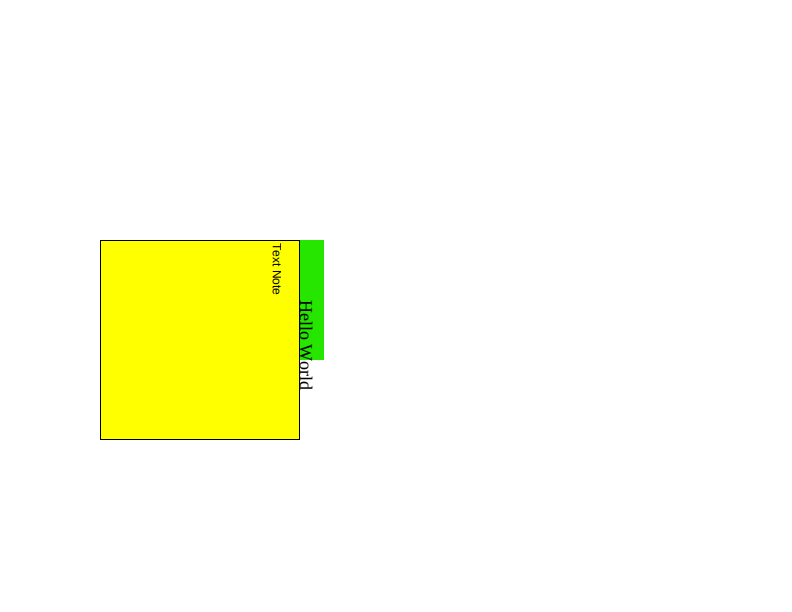
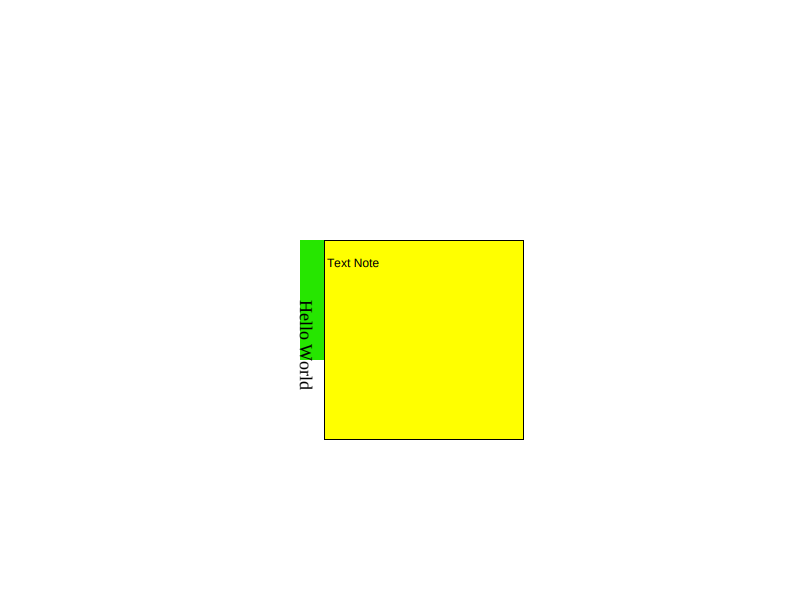
Fix missing NoRotate in popup annotations
Annotation popups were missing the 'NoRotate' flag.

This commit adds it and also performs out of bound checks by calculating
where the popup will be after the rotations (one page, one top left of
the annotation rect) and translating it accordingly.

This commit deliberately omits the also missing 'NoZoom' flag.

Bug: 504284794

Changed region(s): [[0.1212, 0.3725, 0.6667, 0.7451]]

diff --git a/core/fpdfdoc/cpdf_annotlist.cpp b/core/fpdfdoc/cpdf_annotlist.cpp
@@ -100,24 +100,82 @@ std::unique_ptr<CPDF_Annot> CreatePopupAnnot(CPDF_Document* document,
 
   CFX_FloatRect rect = pParentDict->GetRectFor(pdfium::annotation::kRect);
   rect.Normalize();
-  CFX_FloatRect popupRect(0, 0, 200, 200);
-  // Note that if the popup can set its own dimensions, then we will need to
-  // make sure that it isn't larger than the page size.
-  if (rect.left + popupRect.Width() > pPage->GetPageWidth() &&
-      rect.bottom - popupRect.Height() < 0) {
-    // If the annotation is on the bottom-right corner of the page, then place
-    // the popup above and to the left of the annotation.
-    popupRect.Translate(rect.right - popupRect.Width(), rect.top);
-  } else {
-    // Place the popup below and to the right of the annotation without getting
-    // clipped by page edges.
-    popupRect.Translate(
-        std::min(rect.left, pPage->GetPageWidth() - popupRect.Width()),
-        std::max(rect.bottom - popupRect.Height(), 0.f));
+
+  // Define the pivot point so that it does not overlap `rect` after the
+  // `NoRotate` counter-rotation.
+  CFX_PointF pivot;
+  switch (pPage->GetPageRotation() % 4) {
+    case 1:
+      pivot = CFX_PointF(rect.left, rect.top);
+      break;
+    case 2:
+      pivot = CFX_PointF(rect.right, rect.top);
+      break;
+    case 3:
+      pivot = CFX_PointF(rect.right, rect.bottom);
+      break;
+    default:
+      pivot = CFX_PointF(rect.left, rect.bottom);
+      break;
   }
 
-  pAnnotDict->SetRectFor(pdfium::annotation::kRect, popupRect);
-  pAnnotDict->SetNewFor<CPDF_Number>(pdfium::annotation::kF, 0);
+  constexpr float kPopupSize = 200;
+  CFX_FloatRect popup_rect(pivot.x, pivot.y - kPopupSize, pivot.x + kPopupSize,
+                           pivot.y);
+
+  const float page_width = pPage->GetPageWidth();
+  const float page_height = pPage->GetPageHeight();
+  // Define the page rotation matrix, but without flipping the Y axis.
+  // The result is 'user space' coordinates after rotation.
+  CFX_Matrix page_rotation_matrix;
+  switch (pPage->GetPageRotation() % 4) {
+    case 1:
+      page_rotation_matrix = CFX_Matrix(0, -1, 1, 0, 0, page_height);
+      break;
+    case 2:
+      page_rotation_matrix = CFX_Matrix(-1, 0, 0, -1, page_width, page_height);
+      break;
+    case 3:
+      page_rotation_matrix = CFX_Matrix(0, 1, -1, 0, page_width, 0);
+      break;
+    default:
+      break;
+  }
+  CFX_FloatRect rotated_rect = page_rotation_matrix.TransformRect(rect);
+  CFX_FloatRect rotated_popup_rect =
+      page_rotation_matrix.TransformRect(popup_rect);
+  CFX_PointF rotated_pivot = page_rotation_matrix.Transform(pivot);
+
+  CFX_Matrix pivot_rotation_matrix;
+  // Rotation matrix around the popup rect's pivot point.
+  pivot_rotation_matrix.Translate(-rotated_pivot.x, -rotated_pivot.y);
+  pivot_rotation_matrix.Rotate(FXSYS_PI / 2 * pPage->GetPageRotation());
+  pivot_rotation_matrix.Translate(rotated_pivot.x, rotated_pivot.y);
+  rotated_popup_rect = pivot_rotation_matrix.TransformRect(rotated_popup_rect);
+
+  // Check bounds
+  CFX_PointF rotated_new_pos = rotated_pivot;
+  if (rotated_popup_rect.bottom < 0) {
+    rotated_new_pos.y = rotated_rect.top + kPopupSize;
+  }
+  if (rotated_popup_rect.top > page_height) {
+    rotated_new_pos.y = rotated_rect.bottom - kPopupSize;
+  }
+  if (rotated_popup_rect.left < 0) {
+    rotated_new_pos.x = rotated_rect.right + kPopupSize;
+  }
+  if (rotated_popup_rect.right > page_width) {
+    rotated_new_pos.x = rotated_rect.left - kPopupSize;
+  }
+
+  CFX_PointF newPos =
+      page_rotation_matrix.GetInverse().Transform(rotated_new_pos);
+  popup_rect.Translate(newPos.x - pivot.x, newPos.y - pivot.y);
+  pAnnotDict->SetRectFor(pdfium::annotation::kRect, popup_rect);
+
+  constexpr uint32_t kFlags = pdfium::annotation_flags::kNoRotate;
+  pAnnotDict->SetNewFor<CPDF_Number>(pdfium::annotation::kF,
+                                     static_cast<int>(kFlags));
 
   auto pPopupAnnot =
       std::make_unique<CPDF_Annot>(std::move(pAnnotDict), document);
